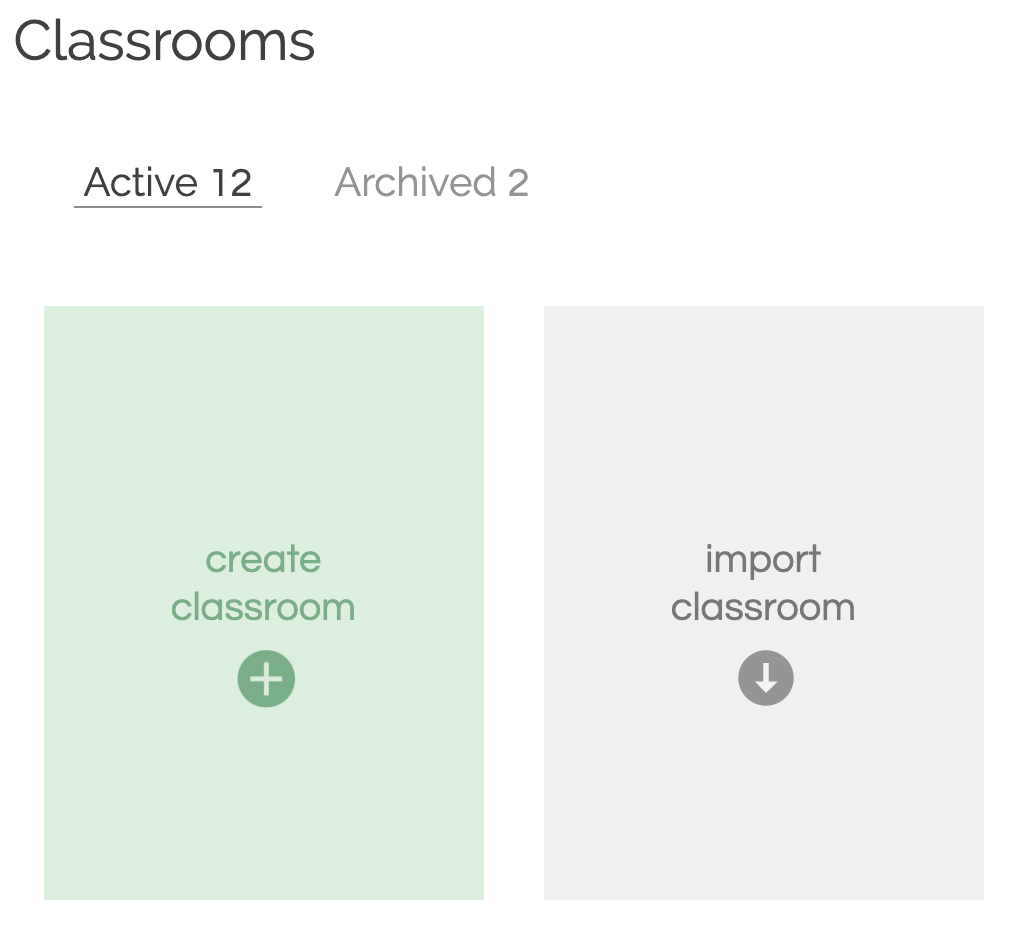
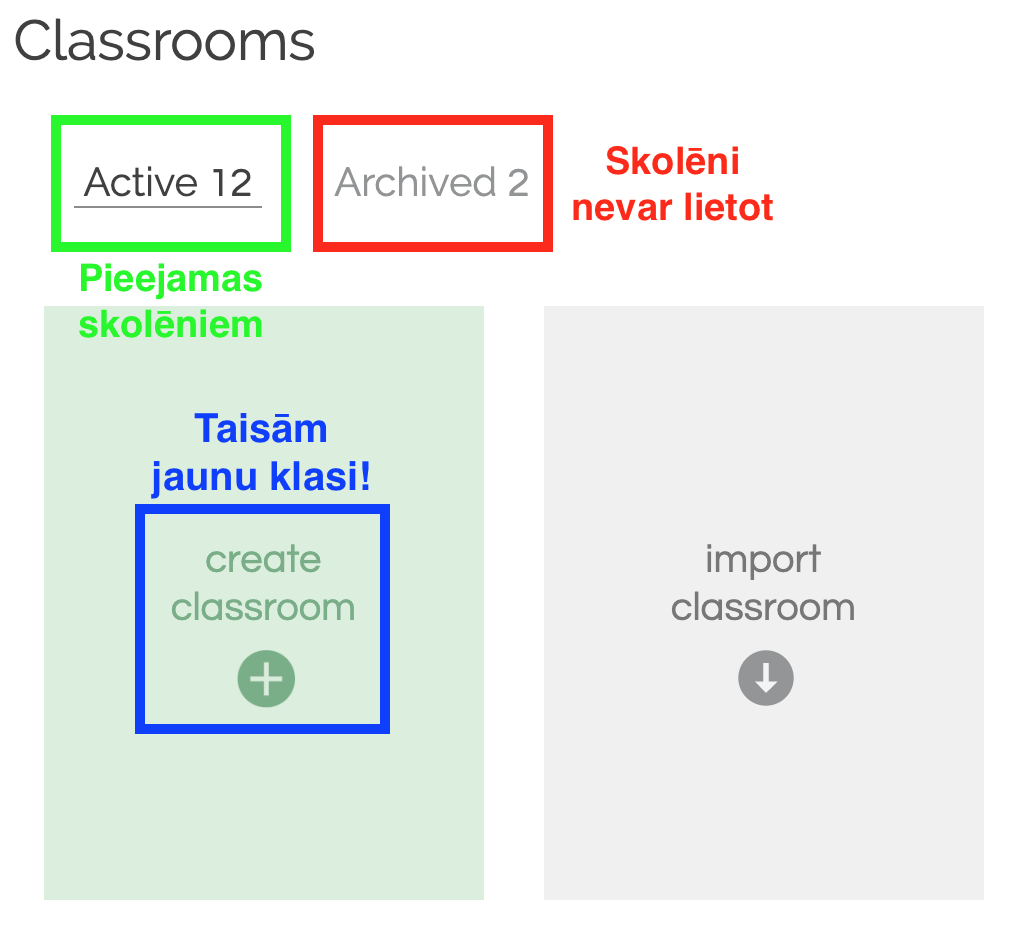
jauni slaidi par repl.it skolotaju skatu

Changed region(s): [[0.0312, 0.121, 0.75, 0.3629], [0.125, 0.4233, 0.4062, 0.8164]]

diff --git a/temas/repl.it/skolotajs/PITCHME.md b/temas/repl.it/skolotajs/PITCHME.md
@@ -1,0 +1,143 @@
+## repl.it skolotājiem
+
++++
+
+@snap[north span-100 text-smallcaps]
+### repl.it skolotāja skats
+@snapend
+
+@img[](assets/img/replit-teacher.png)
+
++++
+
+@snap[north span-100 text-smallcaps]
+### Terminoloģija
+@snapend
+
+@ul
+- Classroom - uzdevumu grupa
+- Assignment - uzdevums
+- Assignment instructions - uzdevuma apraksts (instrukcijas)
+- Assignment code - uzdevuma sākuma kods
+- Test case - automātiskas pārbaudes vienība konkrētam uzdevumam
+- Assignment state - uzdevuma statuss (publicēts vai melnraksts)
++++
+
+@snap[north span-100 text-smallcaps]
+### Veidojam jaunu uzdevumu grupu
+@snapend
+
+@ul
+- Nosauc uzdevumu grupu
+  - Specifisku un īsu nosaukumu
+    - pēc tēmas (Cikli)
+    - pēc mērķa (Pārbaudes darbs, novembris)
+- Izvēlās programmēšanas valodu
+- Var pievienot aprakstu
+- Var pievienot attēlu (vieglāk atpazīt)
+@ulend
+
++++
+
+@snap[north span-100 text-smallcaps]
+### Veidojam jaunu uzdevumu
+@snapend
+
+@img[](assets/img/replit-teacher-new-assignment.png)
+
++++
+
+@snap[north span-100 text-smallcaps]
+### Izveidots jaunu uzdevums
+@snapend
+
+@img[](assets/img/replit-teacher-new-assignment-filled.png)
+
++++
+
+@snap[north span-100 text-smallcaps]
+### Izveidojam jaunu I/O testu
+@snapend
+
+@img[](assets/img/replit-teacher-create-io-test.png)
+
++++
+
+@snap[north span-100 text-smallcaps]
+### Izveidojam jaunu I/O testa vienību
+@snapend
+
+@img[](assets/img/replit-teacher-create-io-test-case.png)
+
++++
+
+@snap[north span-100 text-smallcaps]
+### Publicēšanas iespējas
+@snapend
+
+@img[](assets/img/replit-teacher-publish-options.png)
+
++++
+
+@snap[north span-100 text-smallcaps]
+### Uzdevums
+@snapend
+
+- izveidojiet savu "classroom"
+- izveidojiet vienu uzdevumu
+  - ievades / izvades uzdevuma tipu
+  - ar instrukciju skolēnam
+  - ar sākumkodu
+  - ar i/o testu
+
++++
+
+@snap[north span-100 text-smallcaps]
+### Citu uzdevumu grupu pievienošana
+@snapend
+
+@ul
+
+- caur "Import Classroom"
+  - repl.it piedāvātās uzdevumu grupas
+  - pēc atvēršanas jāizvēlas "Import and Teach"
+- izmantojot URL uz uzdevumu grupu
+  - jebkurš var dalīties ar savu uzdevumu grupu
+  - automātiski tiek izveidota kopija skolotāja kontā
+  - tiek kopēti uzdevumi un testi, bet ne skolēni
+  @ulend
+
++++
+
+@snap[north span-100 text-smallcaps]
+### Nokopējiet Start(IT) izstrādātos uzdevumus
+@snapend
+
+@ul
+- Python (ievaduzdevumi) https://repl.it/data/classrooms/share/8de26716beb51898aa4d536d97949473
+- Python (failu uzdevumi) https://repl.it/data/classrooms/share/27f00d70db48825f28012c5d98e519b7
+- JavaScript (piemēri) https://repl.it/data/classrooms/share/b1c1caedefb594ceaa2b76343d95cc5d
+@ulend
+
++++
+
+@snap[north span-100 text-smallcaps]
+### Uzdevumu grupas iespējas
+@snapend
+
+@ul
+
+- redz pievienotos skolēnus
+- redz skolēnu progresu
+- pieprasa progresu kā *.csv failu
+- ielūdz jaunus skolēnus
+
+@ulend
+
++++
+
+@snap[north span-100 text-smallcaps]
+### Uzdevumu grupas skats
+@snapend
+
+@img[](assets/img/replit-teacher-student-progress.png)

diff --git a/temas/python/prakse/PITCHME.md b/temas/python/prakse/PITCHME.md
@@ -388,17 +388,19 @@ for i in range(len(masivs)):
 +++
 
 @snap[north span-100 text-smallcaps]
-#### Cikli (for .. in ...) ar vārdīcu
+#### Cikli (for .. in ...) ar vārdnīcu
 @snapend
 
 ```python
 vardnica = {"viens": "one", "divi": "two", "trīs": "three"}
 
-for atslega in vardnice:
+for atslega in vardnica:
     print(atslega, vardnica[atslega])
 
 for atslega, vertiba in vardnica.items():
     print(atslega, vertiba)
+
+vardnica["cetri"] = "four"
 
 ```
 
@@ -495,29 +497,3 @@ https://repl.it/classroom/invite/gn3mTBi
 
 ---
 
-### repl.it lietošana mācīšanai
-
-@img[](assets/img/replit-teacher.png)
-
-+++
-
-### Veidojam jaunu klasi ar Python valodu
-
-@img[](assets/img/replit-teacher-create-classroom.png)
-
-+++
-
-### Uzdevums
-
-- izveidojiet savu "classroom"
-- izveidojiet vienu uzdevumu
-  - ar instrukciju
-  - ar sākumkodu
-
-+++
-
-### Noklonējiet šīs klases
-
-- Python (šodienas uzdevumi) https://repl.it/data/classrooms/share/8de26716beb51898aa4d536d97949473
-- Python (šodienas failu uzdevumi) https://repl.it/data/classrooms/share/27f00d70db48825f28012c5d98e519b7
-- JavaScript piemēri https://repl.it/data/classrooms/share/b1c1caedefb594ceaa2b76343d95cc5d

diff --git a/temas/python/teorija/PITCHME.md b/temas/python/teorija/PITCHME.md
@@ -6,7 +6,7 @@
 
 @ul
 - Vienkārša sintakse
-  - (ja zina angļu valodu)
+  - (ja zina angļu valodu @fa[solid-smile-wink] )
 - Populāra kā pirmā programmēšanas valoda
   - MIT
   - Harvard University
@@ -20,8 +20,8 @@
 @ul
 - datu apstrāde (NumPy, SciPy, Pandas)
 - tīmekļa lapas (Flask, Bottle, Django)
-- mašīnmācīšanās (OpenCV, TensorFlow)
-- robotika (...)
+- mašīnmācīšanās (OpenCV, PyTorch, TensorFlow)
+- robotika (pyFirmata)
 @ulend
 
 +++

diff --git a/temas/repl.it/PITCHME.md b/temas/repl.it/PITCHME.md
@@ -1,0 +1,3 @@
+---?include=temas/repl.it/skolens/PITCHME.md
+
+---?include=temas/repl.it/skolotajs/PITCHME.md
